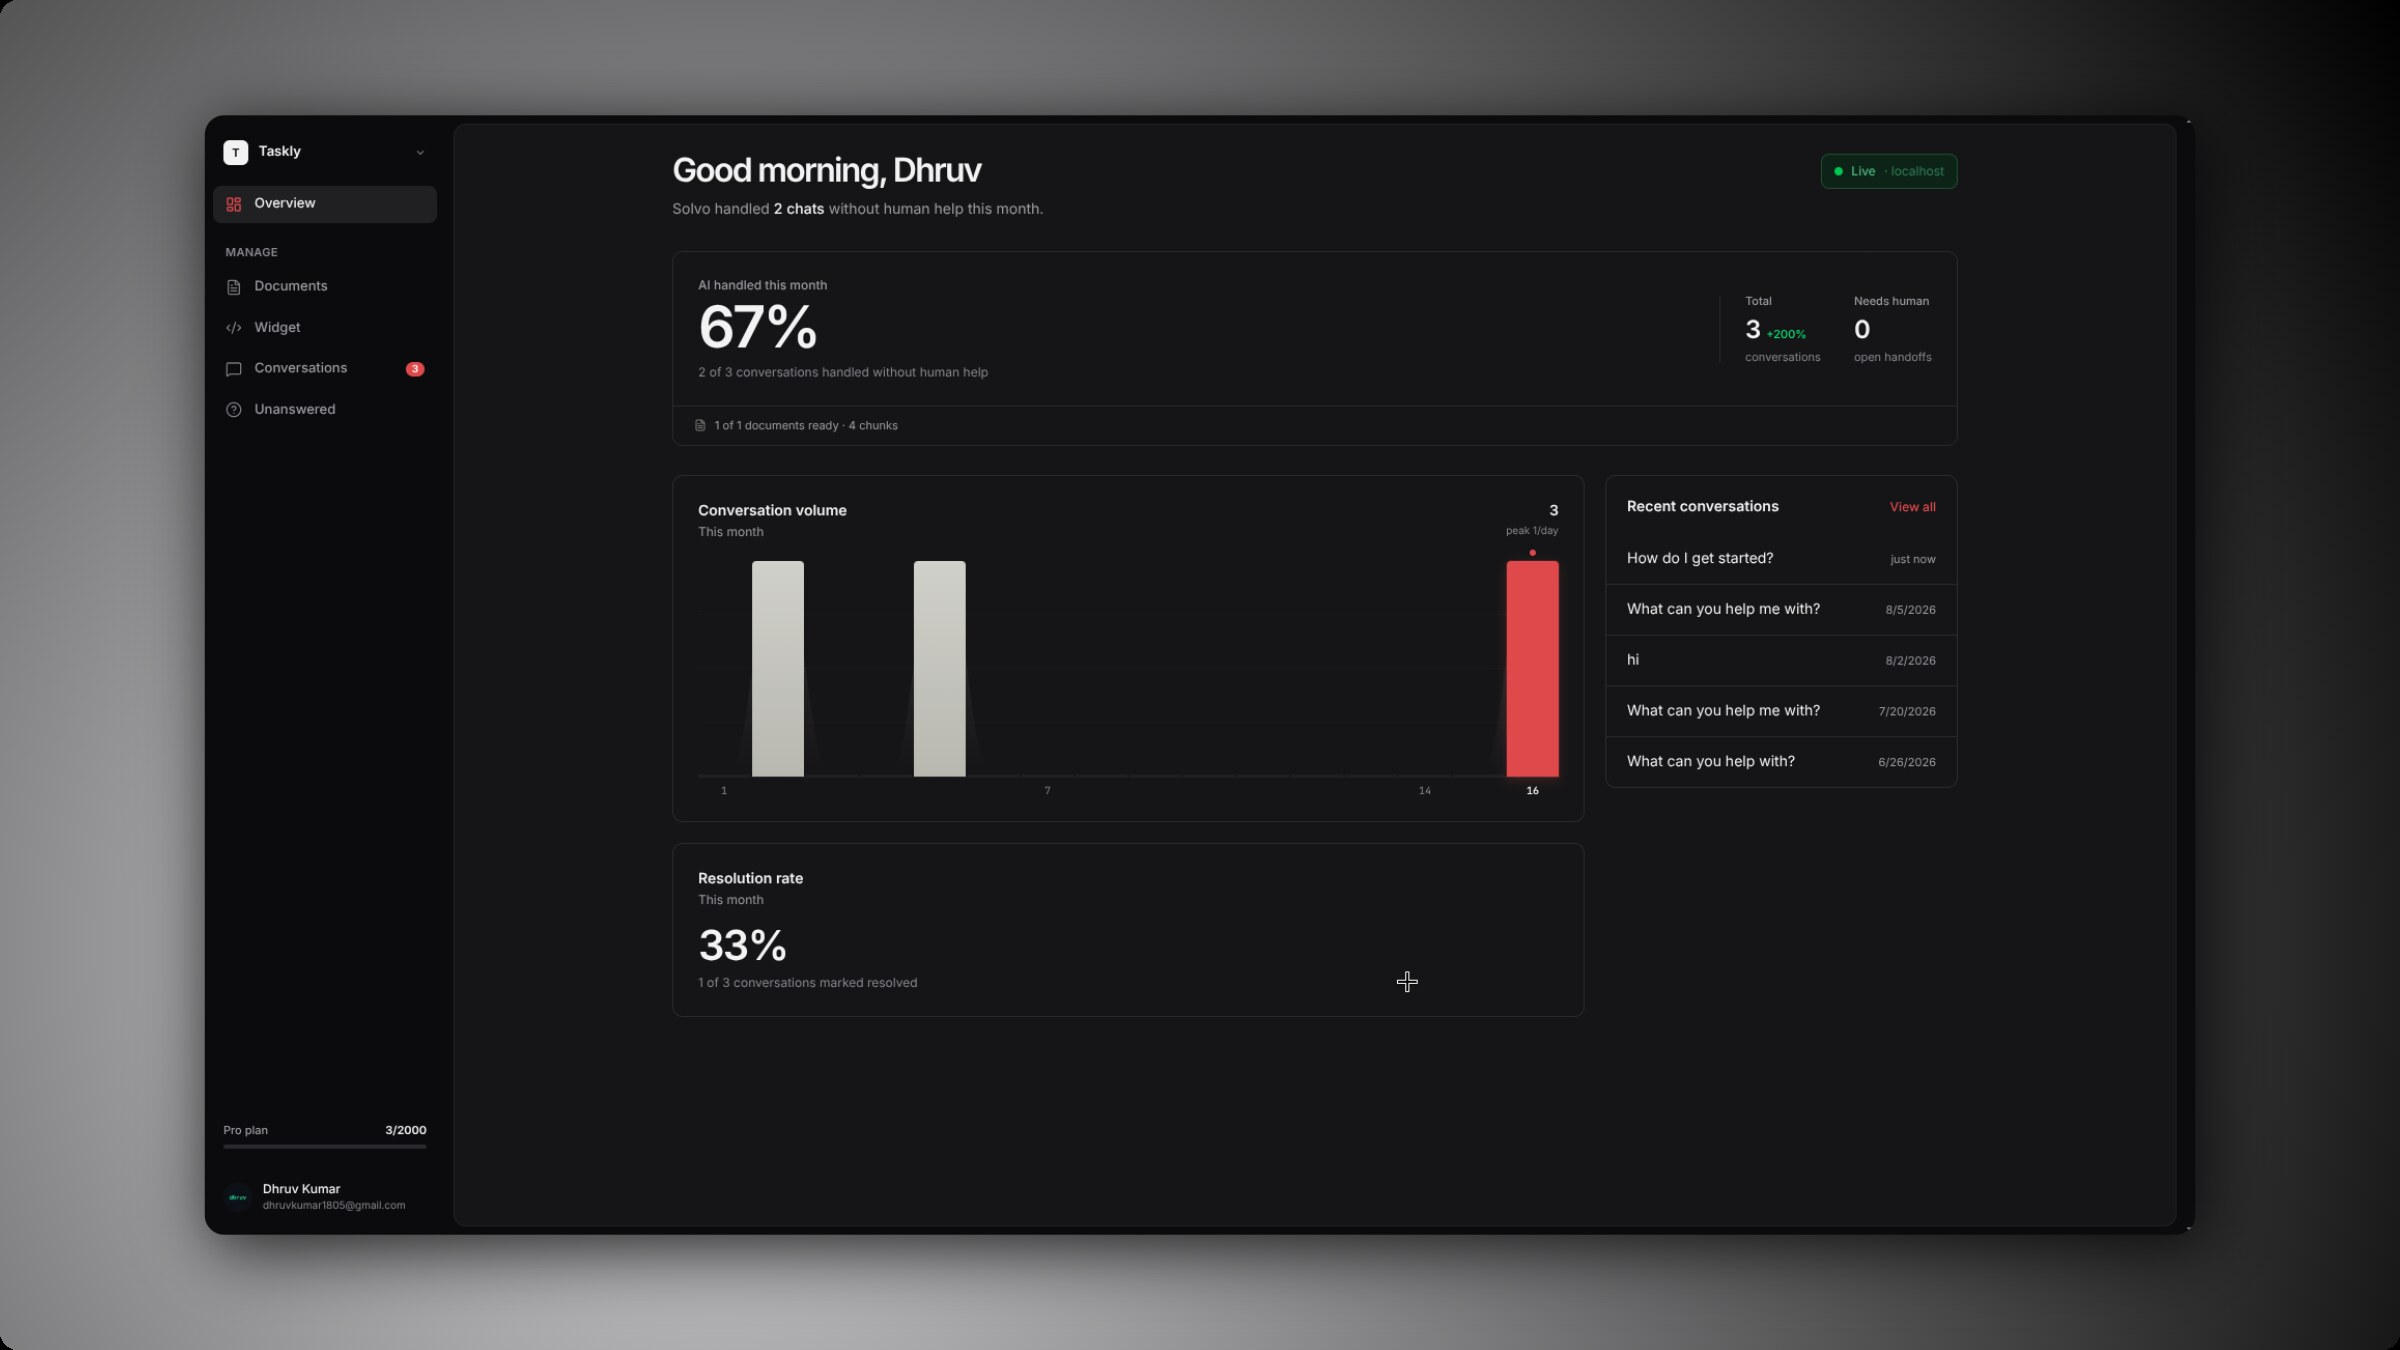
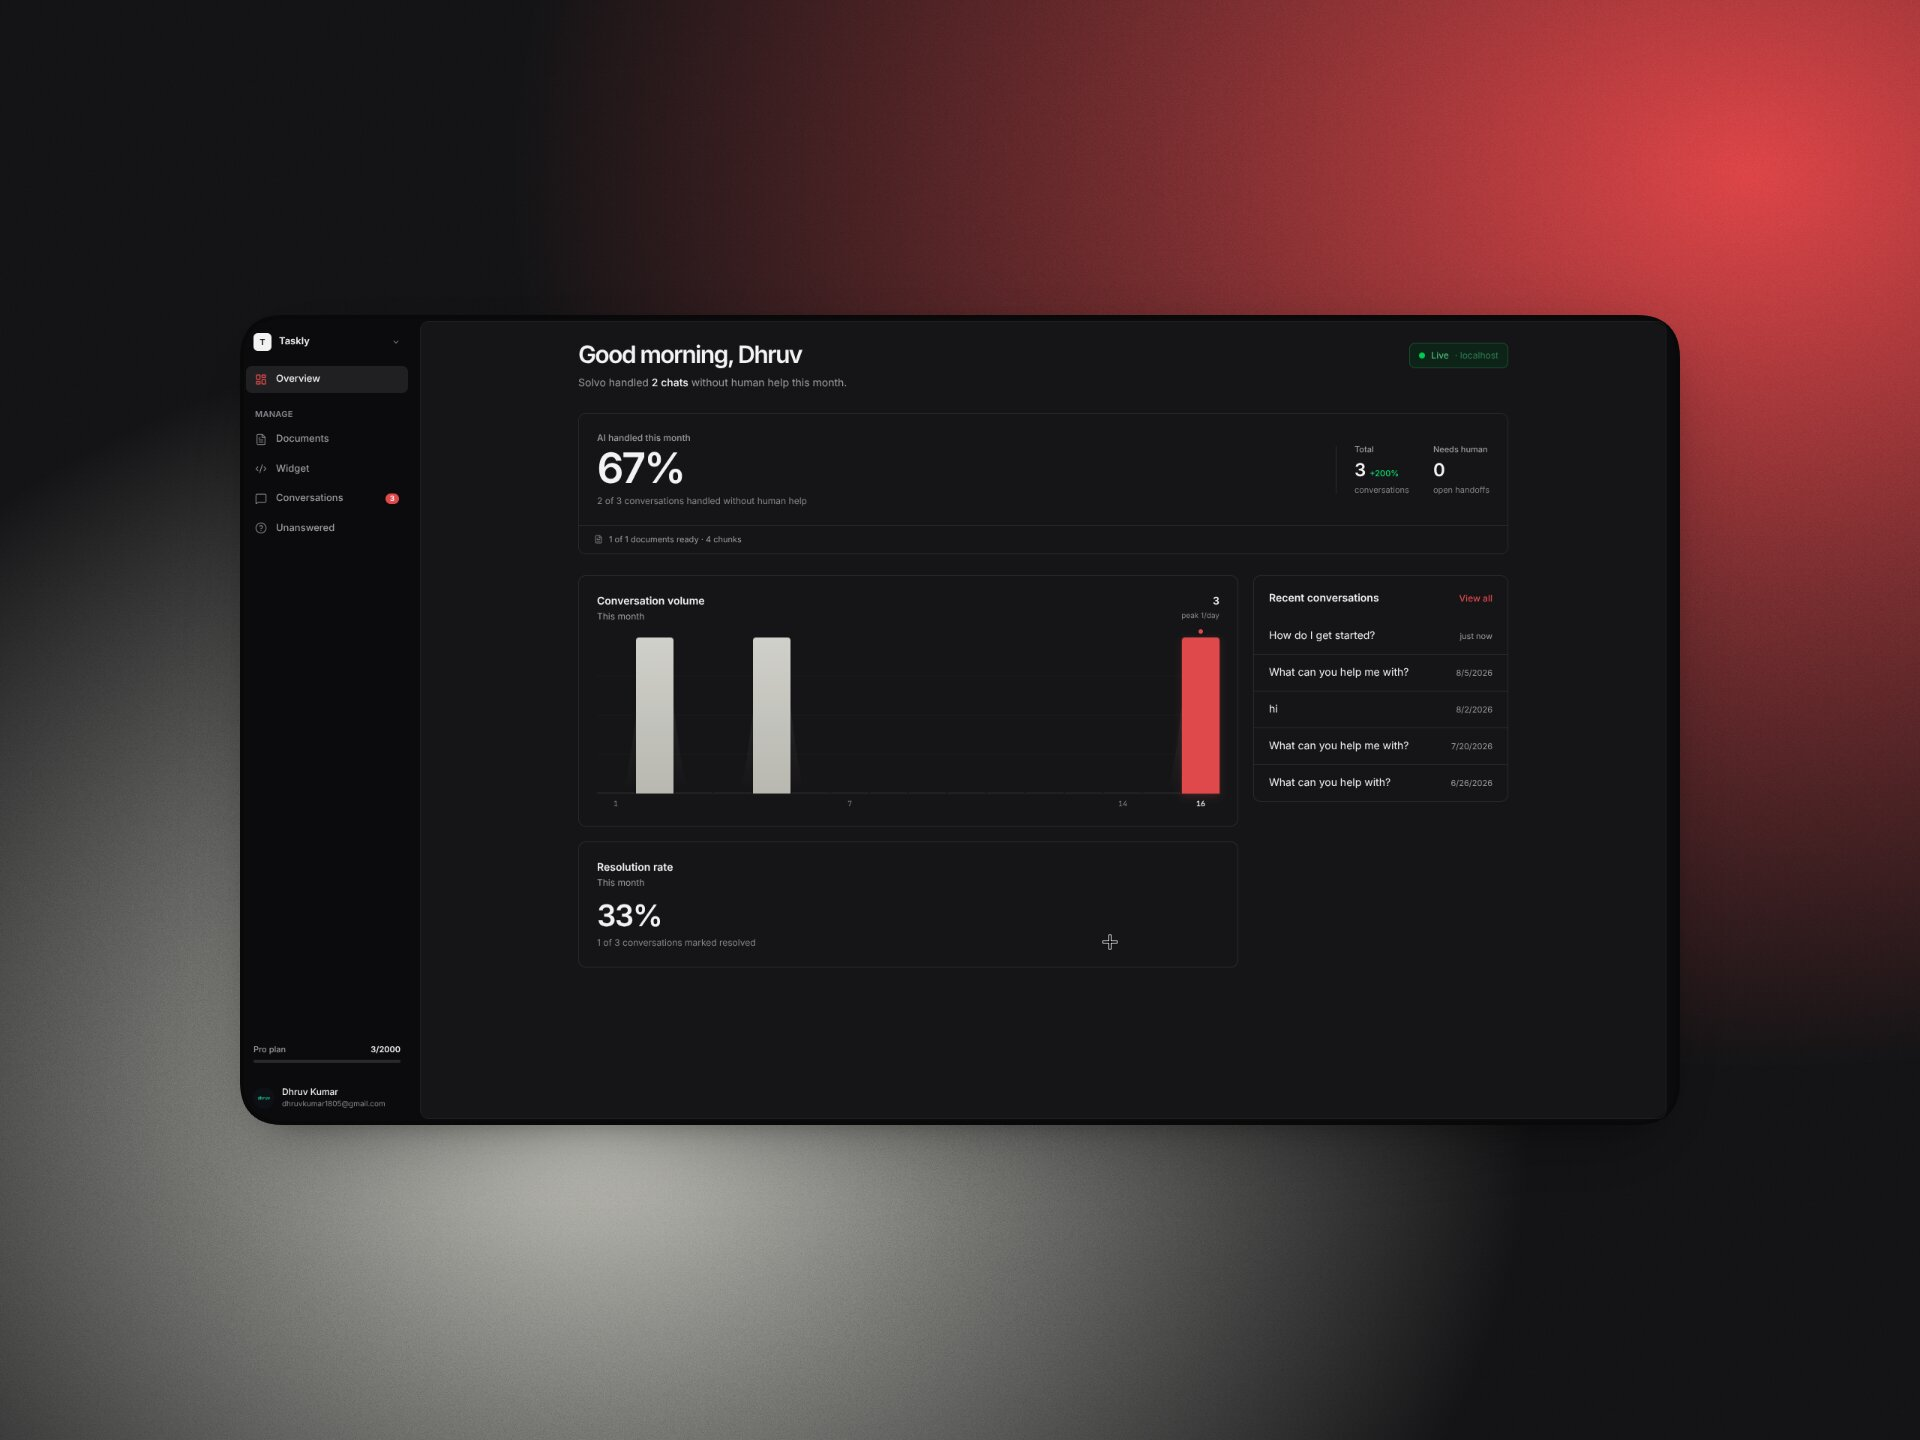
Swap in new compressed project screenshots

diff --git a/app/projects/bunnys-cafe/page.tsx b/app/projects/bunnys-cafe/page.tsx
@@ -117,9 +117,9 @@ export default function BunnysCafeCaseStudy() {
         <div className="overflow-hidden rounded-[5px] border border-line">
           <Image
             src="/images/projects/bunnys-cafe-admin.jpg"
-            alt="Bunny's Cafe admin dashboard: menu management with live order status"
-            width={2400}
-            height={1350}
+            alt="Bunny's Cafe ordering app: menu browsing and live order status tracking"
+            width={1920}
+            height={1440}
             sizes="(min-width: 760px) 760px, 100vw"
             className="w-full"
           />

diff --git a/app/projects/solvo/page.tsx b/app/projects/solvo/page.tsx
@@ -113,8 +113,8 @@ export default function SolvoCaseStudy() {
           <Image
             src="/images/projects/solvo-dashboard.jpg"
             alt="Solvo admin dashboard: conversation volume, AI resolution rate, and recent chats"
-            width={2400}
-            height={1350}
+            width={1920}
+            height={1440}
             sizes="(min-width: 760px) 760px, 100vw"
             className="w-full"
           />
